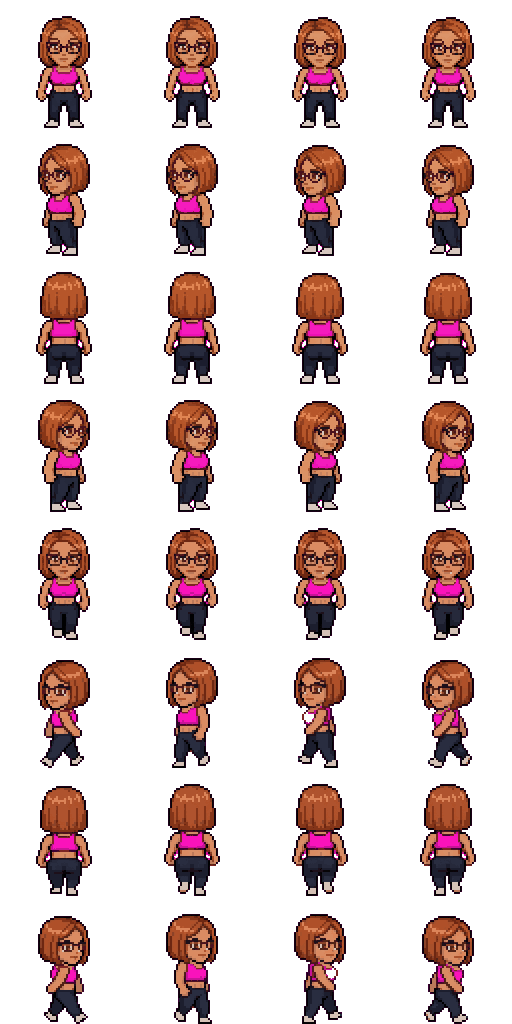
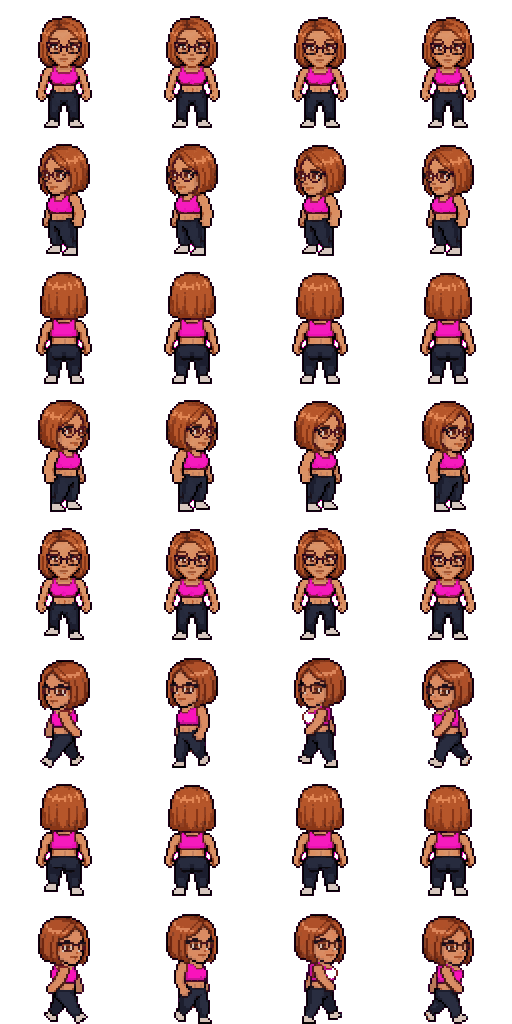
Clic sul personaggio mostra la chat anche a schermo intero; camminate e ombre
- shell: nuovo comando "show" / "show:<id>"; anche il cerchio ascolta
  ui.select (la chat parcheggiata fuori schermo può non reagire) e la
  shell mostra la chat e seleziona l'agente; su macOS chat e cerchio
  entrano in tutti gli spazi, anche sopra il 3D a schermo intero
- overlay: window.__selectAgent per la shell
- personaggi a 128: camminate rifatte (piedi alternati davanti/dietro,
  passo e appoggio di lato per la mora)
- niente ombre proiettate dai personaggi (al sole sembravano staccate)
- puntini fluttuanti spenti insieme a nuvole e uccelli (BAGIDEA_SKY_FX=1)

diff --git a/daemon/overlay.html b/daemon/overlay.html
@@ -1824,6 +1824,8 @@
     el.textContent = "";
   }
   let _compId = null;
+  // The native shell calls this after a 3D click has brought the chat up.
+  window.__selectAgent = (id) => { if (id === "ceo" || ROSTER[id]) setTarget(id); };
   function body(el, id) {
     _compId = id;
     const n = npcOf(id);
@@ -8661,7 +8663,10 @@
     }
     if (ev.type === "ui.select") {   // a character was clicked in the 3D office
       const id = String(ev.agent || "").split("#")[0];
-      if (id === "ceo" || ROSTER[id]) setTarget(id);
+      if (id === "ceo" || ROSTER[id]) {
+        setTarget(id);
+        try { if (window.__shellPost) window.__shellPost("show"); } catch {}   // native shell: bring the chat window up
+      }
       return;
     }
     if (ev.type === "ui.monitors") {  // the shell detected the real screen count

diff --git a/shell/src/main.rs b/shell/src/main.rs
@@ -110,6 +110,7 @@ enum UserEvent {
     DragOrb,
     DragOverlay,
     HideOverlay,
+    ShowOverlay(String), // a character was clicked in the 3D office → bring the chat up on that agent (never hides)
     MiniToggle,
     LargeToggle, // big resizable window (min size = FULL) for reading / real work
     ResizeDrag(String), // large mode: JS edge-zones start an OS resize drag (the
@@ -181,6 +182,7 @@ const ORB_HTML: &str = r#"<!doctype html>
         try {
           const e = JSON.parse(m.data);
           if (e.replay) return;
+          if (e.type === 'ui.select' && e.agent && window.ipc) { window.ipc.postMessage('show:' + String(e.agent).split('#')[0]); return; }
           if (e.type === 'task.started') busy++;
           else if (e.type === 'task.completed' || e.type === 'task.failed') busy = Math.max(0, busy - 1);
           document.body.classList.toggle('busy', busy > 0);
@@ -1383,6 +1385,7 @@ mod platform {
         let f: windows_sys::Win32::UI::WindowsAndMessaging::WNDPROC = std::mem::transmute(prev);
         CallWindowProcW(f, hwnd, msg, wp, lp)
     }
+    pub fn join_all_spaces(_w: &Window) {}
     pub fn suppress_nc(window: &Window) {
         use std::sync::atomic::Ordering;
         use windows_sys::Win32::UI::WindowsAndMessaging::{
@@ -2012,6 +2015,16 @@ mod platform {
     pub fn set_no_activate(_window: &Window) {}
     pub fn raise_topmost(window: &Window) { window.set_always_on_top(false); window.set_always_on_top(true); }
     pub fn suppress_nc(_window: &Window) {}
+    /// Let a floating window appear in every Space, including over an app in
+    /// native full screen (the 3D office): canJoinAllSpaces | fullScreenAuxiliary.
+    pub fn join_all_spaces(window: &Window) {
+        unsafe {
+            let w = window.ns_window() as *mut AnyObject;
+            if !w.is_null() {
+                let _: () = msg_send![w, setCollectionBehavior: (1u64 << 0) | (1u64 << 8)];
+            }
+        }
+    }
 
     fn round_corners(window: &Window, radius: f64) {
         unsafe {
@@ -2292,6 +2305,7 @@ mod platform {
     pub fn set_no_activate(_w: &Window) {}
     pub fn raise_topmost(window: &Window) { window.set_always_on_top(false); window.set_always_on_top(true); }
     pub fn suppress_nc(_w: &Window) {}
+    pub fn join_all_spaces(_w: &Window) {}
     pub fn region_round(_w: &Window, _a: f64, _b: f64, _r: f64) {}
     pub fn region_circle(_w: &Window, _d: f64) {}
     pub fn set_feed_alpha(_w: &Window, _a: Option<u8>) {}
@@ -2587,6 +2601,7 @@ fn main() {
         &event_loop, "BagIdea Office", FULL.0, FULL.1, PARK.0, PARK.1, app_icon(), false, true,
     );
     overlay.set_outer_position(LogicalPosition::new(PARK.0, PARK.1));
+    platform::join_all_spaces(&overlay);   // shows over the office in full screen too
     let overlay_id = overlay.id();
     let p_overlay = proxy.clone();
     // If the daemon cannot be reached, say so IN the window instead of showing an
@@ -2604,6 +2619,7 @@ fn main() {
                 let _ = match req.body().as_str() {
                     "drag-overlay" => p_overlay.send_event(UserEvent::DragOverlay),
                     "hide" => p_overlay.send_event(UserEvent::HideOverlay),
+                    "show" => p_overlay.send_event(UserEvent::ShowOverlay(String::new())),
                     "mini" => p_overlay.send_event(UserEvent::MiniToggle),
                     "large" => p_overlay.send_event(UserEvent::LargeToggle),
                     "feed-hover:1" => p_overlay.send_event(UserEvent::FeedHover(true)),
@@ -2644,6 +2660,7 @@ fn main() {
     );
     platform::set_no_activate(&orb);
     platform::suppress_nc(&orb);   // swallow non-client paint → no white caption bar on click
+    platform::join_all_spaces(&orb);
     let orb_id = orb.id();
     let p_orb = proxy.clone();
     let _orb_view = WebViewBuilder::new()
@@ -2654,6 +2671,14 @@ fn main() {
                 "toggle" => p_orb.send_event(UserEvent::Toggle),
                 "drag-orb" => p_orb.send_event(UserEvent::DragOrb),
                 "mode" => p_orb.send_event(UserEvent::FeedToggle),
+                // ui.select heard by the orb (always on screen, never throttled):
+                // "show:<agent id>" — only id-safe characters survive.
+                s if s.starts_with("show:") => {
+                    let id: String = s[5..].chars()
+                        .filter(|c| c.is_ascii_alphanumeric() || *c == '_' || *c == '-')
+                        .take(40).collect();
+                    p_orb.send_event(UserEvent::ShowOverlay(id))
+                }
                 _ => Ok(()),
             };
         })
@@ -2917,6 +2942,18 @@ fn main() {
                     splash.set_visible(false);
                 }
                 UserEvent::Toggle => do_toggle(feed, large),
+                UserEvent::ShowOverlay(id) => {
+                    let hidden = overlay.outer_position().map(|p| p.x < -2000).unwrap_or(true);
+                    if hidden && !browser_chat() {
+                        do_toggle(feed, large);
+                    } else if !hidden {
+                        overlay.set_focus();
+                    }
+                    if !id.is_empty() {
+                        let _ = overlay_view.evaluate_script(&format!(
+                            "window.__selectAgent && window.__selectAgent('{}')", id));
+                    }
+                }
                 UserEvent::HideOverlay => {
                     overlay.set_outer_position(LogicalPosition::new(PARK.0, PARK.1));
                 }
